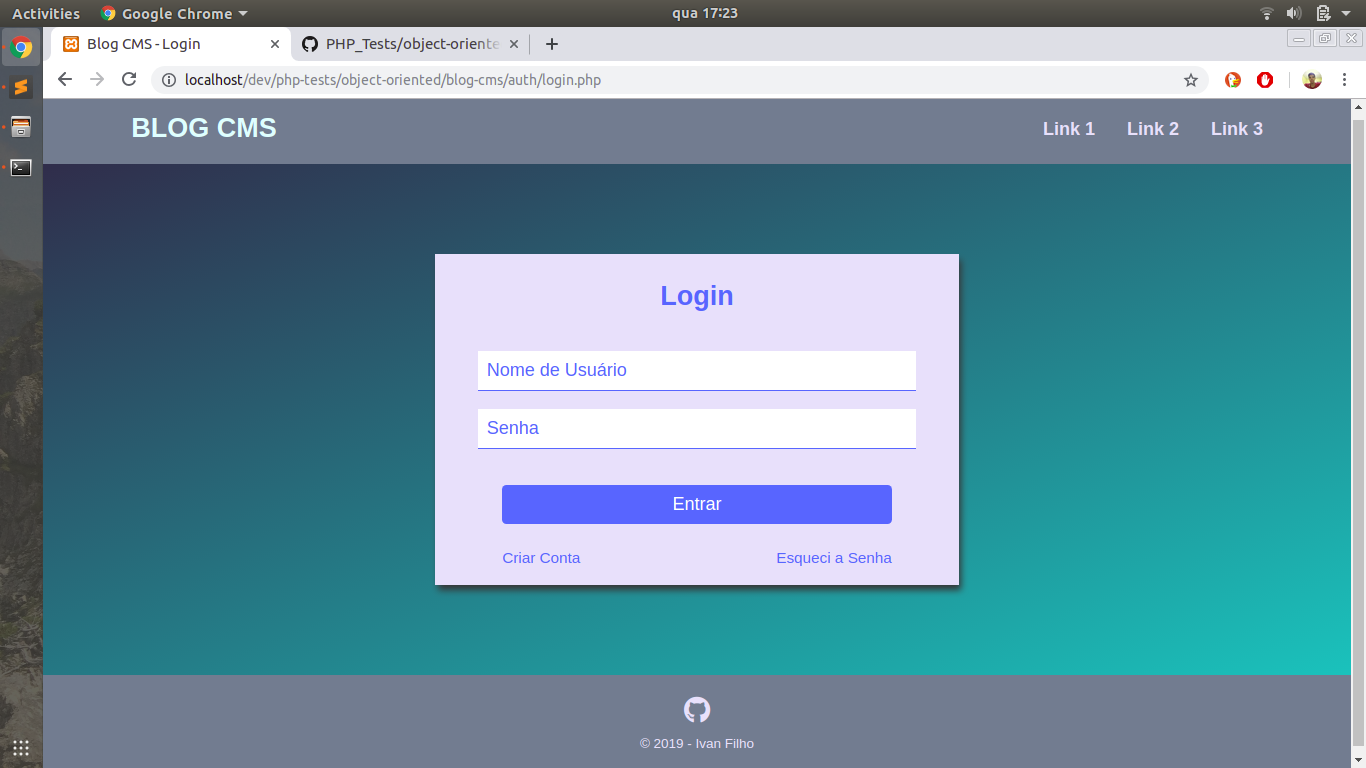
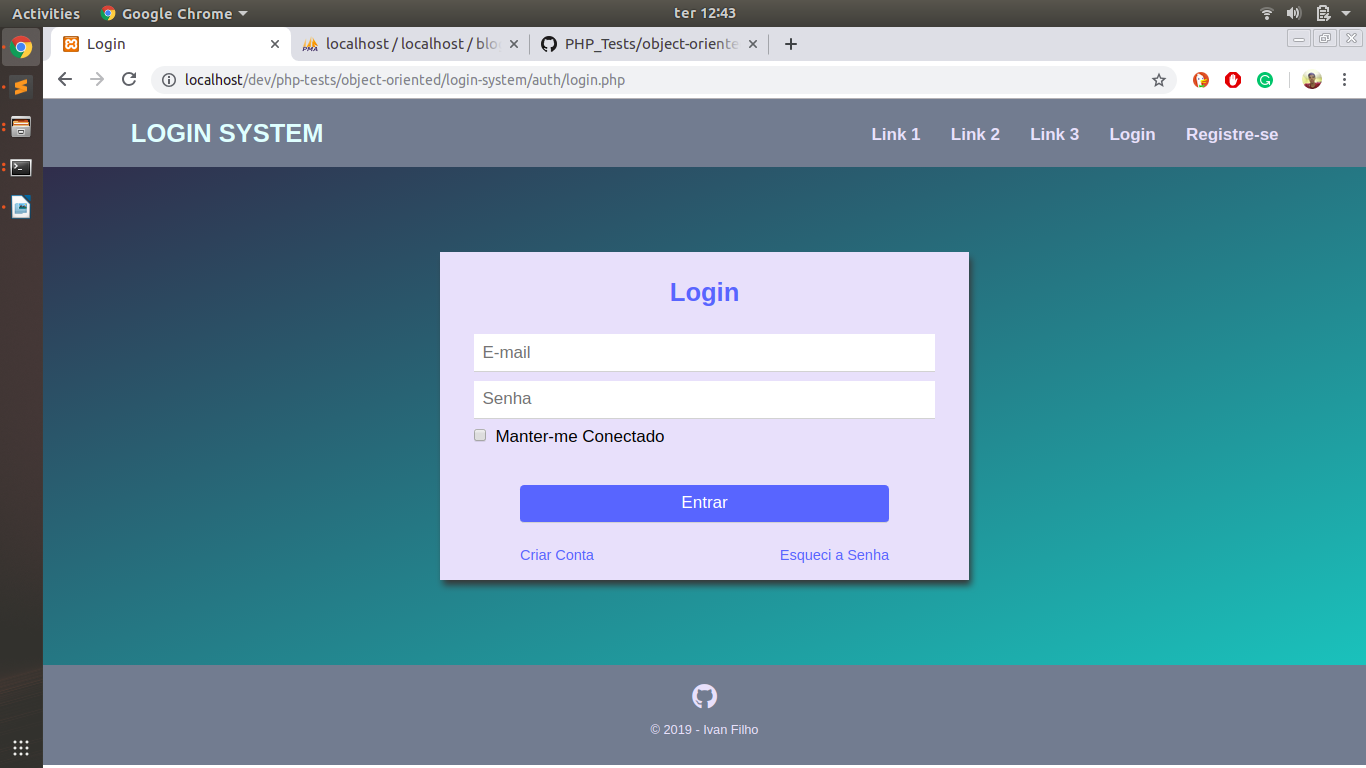
Updated screenshot

diff --git a/object-oriented/login-system/template/parts/header.php b/object-oriented/login-system/template/parts/header.php
@@ -1,7 +1,7 @@
 <header class="header">
     <div class="header-container">
         <!-- Logo -->
-        <a class="logo"href="<?php echo $relPath; ?>index.php";">Blog CMS</a>
+        <a class="logo"href="<?php echo $relPath; ?>index.php";">Login System</a>
 
         <!-- navigation bar -->
         <nav class="top-navigation">
